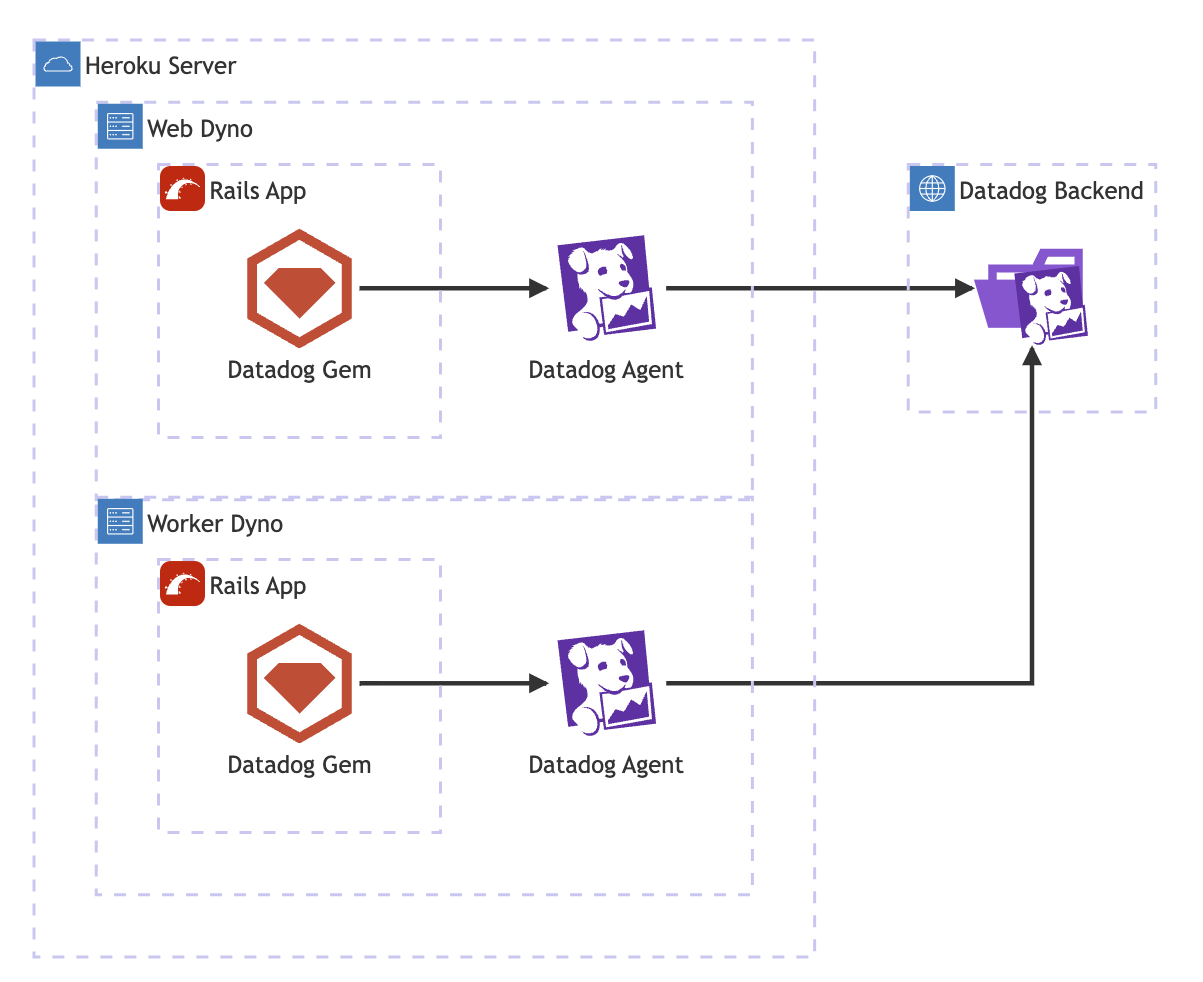
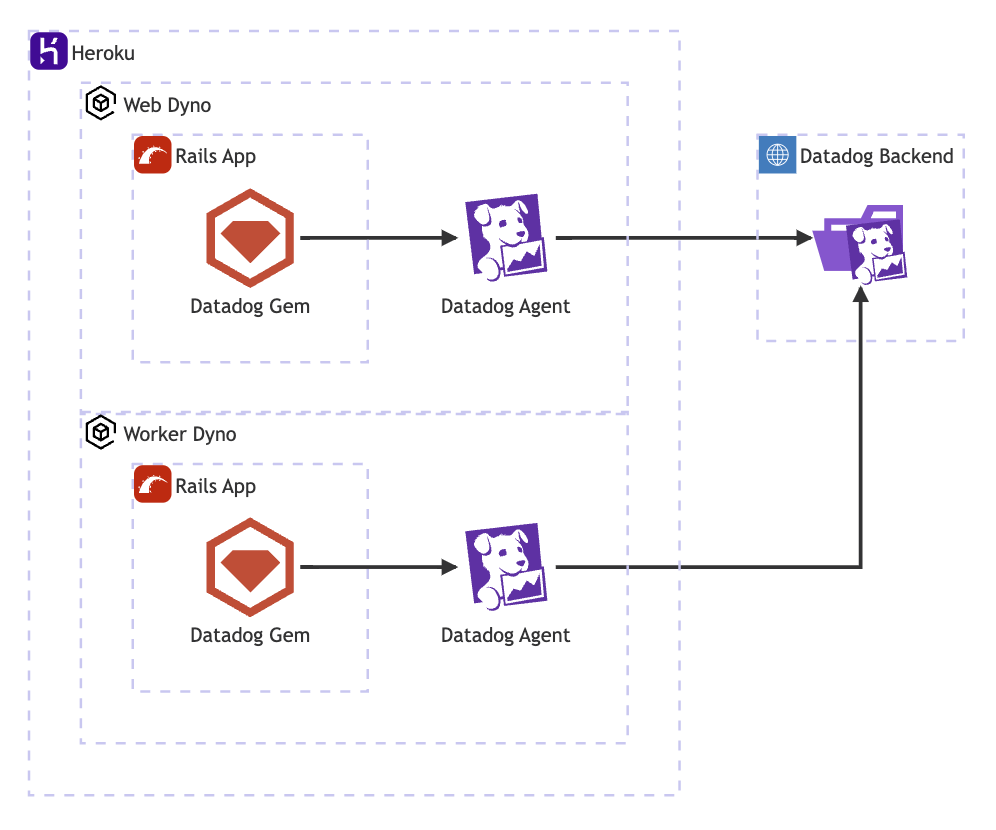
arch diagram, explain high level, more todos

diff --git a/src/markdown/datadog-heroku-rails.md b/src/markdown/datadog-heroku-rails.md
@@ -18,9 +18,23 @@ This post will walk through setting up Datadog APM on a Heroku-hosted Rails appl
 
 **Assumptions:** This guide assumes familiarity with deploying and managing a Rails app on Heroku, along with Heroku CLI installed and authenticated.
 
+## High Level
+
+Before getting into the step-by-step installation details, let's take a look at the overall picture:
+
+![datadog heroku rails architecture diagram](../images/datadog-heroku-rails-architecture-diagram.png "datadog heroku rails architecture diagram")
+
+Heroku runs both web and worker dynos, where your Rails app is hosted. For Datadog APM to capture data effectively, you’ll need both the datadog gem (integrated directly into the Rails app) and the Datadog Agent, which must run as a separate process on each dyno. The trace data flow is:
+
+1. The Rails app, instrumented by the `datadog` gem, generates trace data as it processes requests web and background job requests.
+2. The `datadog` gem sends this trace data to the Datadog Agent running on your Heroku dynos.
+3. The Datadog Agent then aggregates and forwards the traces it receives from the gem to Datadog’s backend.
+
 ## Install Buildpack
 
-Since Heroku doesn't offer a one-click Datadog integration, we need to use the [Datadog Heroku Buildpack](https://docs.datadoghq.com/agent/basic_agent_usage/heroku/). To install it, run the following:
+Since Heroku doesn't offer a one-click Datadog integration, we need to use the [Datadog Heroku Buildpack](https://docs.datadoghq.com/agent/basic_agent_usage/heroku/). Heroku dynos are ephemeral, meaning they don’t retain installed services or agents after a restart. The Datadog buildpack ensures that the Datadog Agent is installed and automatically started each time a dyno is restarted for scaling, deployment, or routine cycling.
+
+To install it, run the following:
 
 ```bash
 heroku buildpacks:add \
@@ -52,10 +66,21 @@ Heroku dyno names are ephemeral, meaning their identifiers can change frequently
 heroku labs:enable runtime-dyno-metadata -a your-app-name
 ```
 
-This allows the Heroku app name, dyno type, and dyno number to be used in Datadog for better tracking of performance metrics.
+This allows information about the dyno to be used in Datadog for better tracking of metrics and traces. You can verify this feature is now enabled by checking your Heroku environment variables, there should now be several new ones starting with `HEROKU...`, for example:
+
+```bash
+heroku config -a my-app | grep "^HEROKU"
+
+# HEROKU_APP_ID:                   abc123...
+# HEROKU_APP_NAME:                 my-app
+# HEROKU_RELEASE_CREATED_AT:       2025-03-25-07T19:55:21Z
+# HEROKU_RELEASE_VERSION:          v1234
+# HEROKU_SLUG_COMMIT:              5c8d2...
+# HEROKU_SLUG_DESCRIPTION:         Deploy 5c8...
+```
 
 <aside class="markdown-aside">
-The Heroku docs for dyno metadata have a warning: "Features added through Heroku Labs are experimental and subject to change.". It's concerning that something so critical as APM is depending on an experimental feature. However, when I reached out to Heroku support for help with setting up Datadog, their reply was "Just use NewRelic" ¯\_(ツ)_/¯
+The Heroku docs for dyno metadata have a warning: "Features added through Heroku Labs are experimental and subject to change.". It's concerning that something so critical as APM is depending on an experimental feature. However, when I reached out to Heroku support for help with setting up Datadog, their reply was "<em class="markdown-emphasis">Just use NewRelic</em>" ¯\_(ツ)_/¯
 </aside>
 
 ## Configure Agent
@@ -293,6 +318,10 @@ After deployment, give it a few minutes, then open Datadog’s Infrastructure se
 
 Next, go to APM -> Service Catalog -> Select your service, then from the list of resources, select any Resource Page. This should also display the host metrics, now correlated with specific resource executions. This setup ensures you can track performance and resource usage comprehensively across both Infrastructure and APM sections. You should also see telemetry data for the Rails app, with each `Controller#action` instrumented by Datadog appearing as a Resource.
 
+<aside class="markdown-aside">
+Telemetry data from Datadog will show the database queries executed by your Rails app, but if you want deeper insights into PostgreSQL performance, you’ll need to set up Datadog’s PostgreSQL monitoring service, which comes at an additional cost. For more details on configuring PostgreSQL monitoring with Datadog, check out their <a class="markdown-link" href="https://www.datadoghq.com/monitoring/postgresql-monitoring/">PostgreSQL Monitoring guide</a>. My team isn't using this feature currently, but it could be a topic for a future post.
+</aside>
+
 ## Memory Usage
 
 Since the Datadog agent is another process that will always be running on your dyno's, be aware that it does consume additional memory. Our staging environment was using the Basic dyno type, which only has 512MB of memory, and it started crashing frequently after adding the Datadog agent. To resolve this we had to upgrade to the Standard dyno type. To be fair, it was the Rails app was consuming most of this memory, and adding the Datadog agent just pushed it over the edge.
@@ -314,7 +343,7 @@ ps auxww --sort=-%mem
 The Heroku docs have the complete list of <a class="markdown-link" href="https://www.heroku.com/dynos">Dyno Types</a>. Notice the steep price increase from Basic to Standard. This is the cost of the convenience of a PaaS. Although with consistent improvements in deployment tooling such as <a class="markdown-link" href="https://kamal-deploy.org/">Kamal</a>, it may be possible to get this convenience at a lower price. Perhaps a blog post for another day.
 </aside>
 
-## Summary References
+## Summary
 
 In this guide, we walked through integrating Datadog APM with a Rails app deployed on Heroku. Key steps included adding the Datadog buildpack, enabling Heroku dyno metadata, configuring environment variables for the Datadog agent, and setting up unified service tagging for consistent metrics and traces. We also installed and configured the `datadog` gem in the Rails application.
 
@@ -324,7 +353,7 @@ In this guide, we walked through integrating Datadog APM with a Rails app deploy
 - [Heroku Dyno Metadata](https://devcenter.heroku.com/articles/dyno-metadata)
 - [Datadog Tracing Ruby Applications](https://docs.datadoghq.com/tracing/trace_collection/automatic_instrumentation/dd_libraries/ruby/)
 
-## Bonus: Terminal Tab Visual Cues
+## Bonus: Terminal Visual Cues
 
 A few times during this post, we had to shell into Heroku to check on things. To [avoid disasters](https://np.reddit.com/r/cscareerquestions/comments/6ez8ag/accidentally_destroyed_production_database_on/), I like to colorize my terminal tabs differently to make it obvious that I'm no longer in my own laptop's shell. You can change the terminal tab colors by adding a function to your shell profile (`~/.bash_profile` or `~/.zshrc`), which will adjust the red, green, and blue values of the tab background.
 
@@ -378,10 +407,6 @@ Customize the aliases for whatever you'll remember. For me I think of "Heroku Sh
 Note that I use [iTerm with zsh and oh-my-zsh](../how-i-setup-my-terminal) and the above technique has only been tested on this particular setup.
 
 ## TODO
-* Nice to have: a visual showing how the components fit together: Heroku dynos, DD agent installed on dyno and sending host metrics, datadog gem installed as part of Rails app and sending instrumentation data to DD agent, DD site receiving metrics from DD agent.
-  * See WIP `tech/blog-research/rails-heroku-datadog/mermaid4.html`
-* After dyno metadata enabled, maybe show expectation that now a bunch of `HEROKU_...` env vars should be populated? (get example from work laptop, make generic if necessary)
-* Aside: telemetry data will show the database queries executed by the Rails app, but PostgreSQL monitoring is an additional service that has to be paid for if you want it, and involves another whole set of steps to setup. And some challenges given that the PG add-on for Heroku is a managed service, i.e. you can't just ssh in there and modify the conf file. My team isn't using this at the moment, so perhaps a topic for a future blog post.
 * Explain a little more about what auto instrument does, try to find it in the dd-trace-rb repo on GitHub: https://github.com/search?q=repo%3ADataDog%2Fdd-trace-rb%20auto_instrument&type=code and https://github.com/DataDog/dd-trace-rb/issues/2343#issuecomment-1299009009
 * Add references (get more links from work laptop?) such as
   * https://docs.datadoghq.com/agent/basic_agent_usage/heroku/
@@ -390,96 +415,3 @@ Note that I use [iTerm with zsh and oh-my-zsh](../how-i-setup-my-terminal) and t
   * troubleshooting: https://docs.datadoghq.com/agent/basic_agent_usage/heroku/#troubleshooting
 * potentially different feature image -> dogs!
 * edit
-
-### Somewhere explain the visual + diagram
-
-When you’re using the `datadog` gem in a Rails app on Heroku, the trace data flow typically follows this path:
-
-1. **Your Rails app**, instrumented by the `datadog` gem, generates trace data as it processes requests.
-2. The `datadog` gem sends this trace data **to the Datadog Agent** running on your Heroku dynos (usually listening on port `8126`).
-3. **The Datadog Agent** then aggregates and forwards the traces it receives from the gem **to Datadog’s backend**, specifically to `DD_SITE="datadoghq.com"`.
-
-```htm
-<!-- https://mermaid.js.org/config/usage.html#cdn -->
-<!doctype html>
-<html lang="en">
-
-<head>
-  <script src="https://cdnjs.cloudflare.com/ajax/libs/html2canvas/1.4.1/html2canvas.min.js"></script>
-</head>
-
-<body>
-  <pre class="mermaid">
-  architecture-beta
-    group heroku(cloud)[Heroku Server]
-
-    group web_dyno(server)[Web Dyno] in heroku
-    group rails_app(skill-icons:rails)[Rails App] in web_dyno
-
-    group dd_cloud(internet)[Datadog Backend]
-    service dd_backend(vscode-icons:folder-type-datadog-opened) in dd_cloud
-
-    group worker_dyno(server)[Worker Dyno] in heroku
-    group rails_app_j(skill-icons:rails)[Rails App] in worker_dyno
-    service datadog_gem_j(logos:rubygems)[Datadog Gem] in rails_app_j
-    service datadog_agent_j(vscode-icons:file-type-datadog)[Datadog Agent] in worker_dyno
-
-    service datadog_gem(logos:rubygems)[Datadog Gem] in rails_app
-    service datadog_agent(vscode-icons:file-type-datadog)[Datadog Agent] in web_dyno
-
-    datadog_gem:R --> L:datadog_agent
-    datadog_gem_j:R --> L:datadog_agent_j
-    datadog_agent:R --> L:dd_backend
-    datadog_agent_j:R --> B:dd_backend
-  </pre>
-
-  <button id="downloadBtn">Download Diagram as PNG</button>
-
-  <script type="module">
-    import mermaid from 'https://cdn.jsdelivr.net/npm/mermaid@11/dist/mermaid.esm.min.mjs';
-    // import html2canvas from 'https://cdnjs.cloudflare.com/ajax/libs/html2canvas/1.4.1/html2canvas.min.js';
-
-    // Register the icon pack for Iconify
-    mermaid.registerIconPacks([
-      {
-        name: 'skill-icons', // Specify the name used in Mermaid syntax (e.g., skill-icons:rails)
-        loader: () =>
-          fetch('https://unpkg.com/@iconify-json/skill-icons@1/icons.json').then(res => res.json())
-      },
-      {
-        name: 'vscode-icons', // For using icons like vscode-icons:file-type-datadog
-        loader: () =>
-          fetch('https://unpkg.com/@iconify-json/vscode-icons@1/icons.json').then(res => res.json())
-      },
-      {
-        name: 'logos', // For logos like 'logos:rubygems'
-        loader: () =>
-          fetch('https://unpkg.com/@iconify-json/logos@1/icons.json').then(res => res.json())
-      },
-    ]);
-
-    // Initialize Mermaid with the configuration
-    // mermaid.initialize({ startOnLoad: true });
-
-    // Download button functionality
-    document.getElementById('downloadBtn').addEventListener('click', () => {
-      const svgElement = document.querySelector('.mermaid svg');
-
-      if (svgElement) {
-        // Convert SVG to PNG using html2canvas
-        html2canvas(svgElement).then(canvas => {
-          // Create a link to download the image
-          const link = document.createElement('a');
-          link.download = 'mermaid_diagram.png';
-          link.href = canvas.toDataURL('image/png');
-          link.click();
-        });
-      } else {
-        alert('Diagram not rendered yet!');
-      }
-    });
-  </script>
-</body>
-
-</html>
-```

diff --git a/docs/mermaid-arch-with-custom-icons.md b/docs/mermaid-arch-with-custom-icons.md
@@ -1,0 +1,93 @@
+# Mermaid Architecture Diagram with Custom Icons
+
+Icons from `https://icones.js.org/collection/` and converted to cdn.
+
+```htm
+<!-- https://mermaid.js.org/config/usage.html#cdn -->
+<!doctype html>
+<html lang="en">
+
+<head>
+  <script src="https://cdnjs.cloudflare.com/ajax/libs/html2canvas/1.4.1/html2canvas.min.js"></script>
+</head>
+
+<body>
+  <pre class="mermaid">
+  architecture-beta
+    group heroku(skill-icons:heroku)[Heroku]
+
+    group web_dyno(carbon:web-services-container)[Web Dyno] in heroku
+    group rails_app(skill-icons:rails)[Rails App] in web_dyno
+
+    group dd_cloud(internet)[Datadog Backend]
+    service dd_backend(vscode-icons:folder-type-datadog-opened) in dd_cloud
+
+    group worker_dyno(carbon:web-services-container)[Worker Dyno] in heroku
+    group rails_app_j(skill-icons:rails)[Rails App] in worker_dyno
+    service datadog_gem_j(logos:rubygems)[Datadog Gem] in rails_app_j
+    service datadog_agent_j(vscode-icons:file-type-datadog)[Datadog Agent] in worker_dyno
+
+    service datadog_gem(logos:rubygems)[Datadog Gem] in rails_app
+    service datadog_agent(vscode-icons:file-type-datadog)[Datadog Agent] in web_dyno
+
+    datadog_gem:R --> L:datadog_agent
+    datadog_gem_j:R --> L:datadog_agent_j
+    datadog_agent:R --> L:dd_backend
+    datadog_agent_j:R --> B:dd_backend
+  </pre>
+
+  <button id="downloadBtn">Download Diagram as PNG</button>
+
+  <script type="module">
+    import mermaid from 'https://cdn.jsdelivr.net/npm/mermaid@11/dist/mermaid.esm.min.mjs';
+    // import html2canvas from 'https://cdnjs.cloudflare.com/ajax/libs/html2canvas/1.4.1/html2canvas.min.js';
+
+    // Register the icon pack for Iconify
+    mermaid.registerIconPacks([
+      {
+        name: 'skill-icons', // Specify the name used in Mermaid syntax (e.g., skill-icons:rails)
+        loader: () =>
+          fetch('https://unpkg.com/@iconify-json/skill-icons@1/icons.json').then(res => res.json())
+      },
+      {
+        name: 'vscode-icons', // For using icons like vscode-icons:file-type-datadog
+        loader: () =>
+          fetch('https://unpkg.com/@iconify-json/vscode-icons@1/icons.json').then(res => res.json())
+      },
+      {
+        name: 'logos', // For logos like 'logos:rubygems'
+        loader: () =>
+          fetch('https://unpkg.com/@iconify-json/logos@1/icons.json').then(res => res.json())
+      },
+      {
+        name: 'carbon', // Adding the Carbon icons
+        loader: () =>
+          fetch('https://unpkg.com/@iconify-json/carbon@1/icons.json').then(res => res.json())
+      },
+    ]);
+
+    // Initialize Mermaid with the configuration
+    // mermaid.initialize({ startOnLoad: true });
+
+    // Download button functionality
+    document.getElementById('downloadBtn').addEventListener('click', () => {
+      const svgElement = document.querySelector('.mermaid svg');
+
+      if (svgElement) {
+        // Convert SVG to PNG using html2canvas
+        html2canvas(svgElement).then(canvas => {
+          // Create a link to download the image
+          const link = document.createElement('a');
+          link.download = 'mermaid_diagram.png';
+          link.href = canvas.toDataURL('image/png');
+          link.click();
+        });
+      } else {
+        alert('Diagram not rendered yet!');
+      }
+    });
+  </script>
+</body>
+
+</html>
+```
